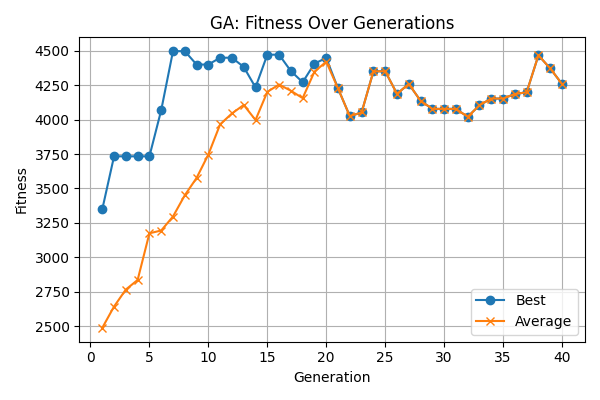
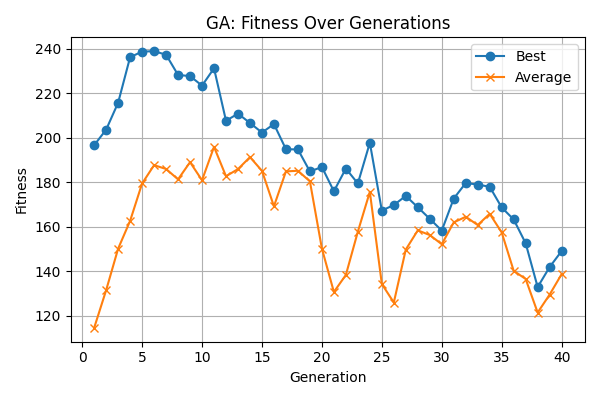
constraints added

diff --git a/templates/index.html b/templates/index.html
@@ -24,7 +24,7 @@
 </head>
 <body>
   <div class="container">
-    <h2>🆘 Disaster Relief — Resource GA & Route Planner</h2>
+    <h2>Disaster Relief — Resource GA & Route Planner</h2>
 
     <form id="mainForm" method="post">
       <div class="card">
@@ -32,7 +32,7 @@
         <table id="areaTable">
           <thead>
             <tr>
-              <th>Area</th><th>Population</th><th>Need</th><th>Urgency</th><th>Blocked?</th><th>X</th><th>Y</th><th>Remove</th>
+              <th>Area</th><th>Population</th><th>Need</th><th>Blocked?</th><th>X</th><th>Y</th><th>Remove</th>
             </tr>
           </thead>
           <tbody id="areaBody">
@@ -40,11 +40,6 @@
               <td><input name="area1" required></td>
               <td><input name="pop1" type="number" value="0" required></td>
               <td><input name="need1" placeholder="Food/Water/Medical" required></td>
-              <td>
-                <select name="urg1">
-                  <option>High</option><option selected>Medium</option><option>Low</option>
-                </select>
-              </td>
               <td>
                 <select name="blk1">
                   <option>No</option><option>Yes</option>
@@ -140,11 +135,6 @@
         <td><input name="area${count}" required></td>
         <td><input name="pop${count}" type="number" value="0" required></td>
         <td><input name="need${count}" placeholder="Food/Water/Medical" required></td>
-        <td>
-          <select name="urg${count}">
-            <option>High</option><option selected>Medium</option><option>Low</option>
-          </select>
-        </td>
         <td>
           <select name="blk${count}">
             <option>No</option><option>Yes</option>

diff --git a/app.py b/app.py
@@ -8,76 +8,87 @@ import matplotlib.pyplot as plt
 
 app = Flask(__name__)
 
-# ---------------------- Improved Genetic Algorithm ----------------------
+# ---------------------- Genetic Algorithm ---------------------- 
 def ga_optimizer(areas, resources, generations=30, population_size=30, elite_size=2, mutation_rate=0.15):
-    """
-    Genetic Algorithm with:
-      - Elitism
-      - Bounded mutation (±10% of total resource)
-      - Best + average fitness tracking
-    """
+    
     total_food = max(1, int(resources.get("Food", 0)))
     total_water = max(1, int(resources.get("Water", 0)))
     total_med = max(1, int(resources.get("Medical", 0)))
 
-    def random_plan():
+    def random_plan(): 
         plan = []
-        for _a in areas:
+        total_population = sum(a["Population"] for a in areas) or 1  # avoid divide-by-zero
+
+        for a in areas: # so resources arent wasted
+            pop = a["Population"]
+            pop_ratio = pop / total_population     # for example 100/300 = 0.33, 0.33*300 = 100 (we have 300 area a - 100 )
+            max_food = int(pop_ratio * total_food)
+            max_water = int(pop_ratio * total_water)
+            max_med = int(pop_ratio * total_med)
+
+            # random allocation bounded by population share
             plan.append({
-                "Area": _a["Area"],
+                "Area": a["Area"],
                 "Allocated": {
-                    "Food": random.randint(0, total_food),
-                    "Water": random.randint(0, total_water),
-                    "Medical": random.randint(0, total_med)
+                    "Food": random.randint(0, max_food),
+                    "Water": random.randint(0, max_water),
+                    "Medical": random.randint(0, max_med)
                 }
             })
         return plan
 
+
     def fitness(plan):
-        coverage = 0.0
-        urgency_score = 0.0
+        fitness_score = 0.0
         delivery_penalty = 0.0
+
         for p, a in zip(plan, areas):
             need = (a.get("Need") or "").lower()
-            urgency = (a.get("Urgency") or "low").lower()
-            blocked = (a.get("Blocked") or "No").lower()
+            blocked = (a.get("Blocked") or "no").lower()
 
+            food = p["Allocated"]["Food"]
+            water = p["Allocated"]["Water"]
+            medical = p["Allocated"]["Medical"]
+
+            # Priority based on need type
             if need == "food":
-                coverage += p["Allocated"]["Food"]
+                score = (0.7 * food) + (0.2 * water) + (0.1 * medical)
             elif need == "water":
-                coverage += p["Allocated"]["Water"]
+                score = (0.7 * water) + (0.2 * food) + (0.1 * medical)
             elif need == "medical":
-                coverage += p["Allocated"]["Medical"]
-
-            if urgency == "high":
-                urgency_score += 100
-            elif urgency == "medium":
-                urgency_score += 60
+                score = (0.7 * medical) + (0.2 * food) + (0.1 * water)
             else:
-                urgency_score += 30
+                # if need is unspecified, treat all equally
+                score = 0.33 * (food + water + medical)
 
             if blocked == "yes":
                 delivery_penalty += 40
 
-        return 0.5 * coverage + 0.3 * urgency_score - 0.2 * delivery_penalty
+            fitness_score += score
+
+        return fitness_score - delivery_penalty
+
 
     population = [random_plan() for _ in range(population_size)]
     best_fitness_over_time = []
     avg_fitness_over_time = []
 
     for gen in range(generations):
+        # --- Evaluate fitness of all individuals ---
         scored = [(fitness(ind), ind) for ind in population]
         scored.sort(key=lambda x: x[0], reverse=True)
         fitness_values = [s for s, _ in scored]
 
+        
         best = scored[0][0]
         avg = sum(fitness_values) / len(fitness_values)
         best_fitness_over_time.append(best)
         avg_fitness_over_time.append(avg)
 
+        
         elites = [ind for _, ind in scored[:elite_size]]
 
-        # Selection probabilities
+        # --- Normalize fitness values into probabilities --- (So it doesnt go beyond limit)
         min_fit = min(fitness_values)
         shift = -min_fit + 1.0 if min_fit < 0 else 0
         fitness_positive = [f + shift for f in fitness_values]
@@ -93,31 +104,65 @@ def ga_optimizer(areas, resources, generations=30, population_size=30, elite_siz
                     return _
             return scored[0][1]
 
+        # --- Child generation ---
         children = elites.copy()
+
+        # --- Resource constraint --- total from mutation is 450 total food we have is 400 
+        def normalize_resources(child):
+            total_allocated = {"Food": 0, "Water": 0, "Medical": 0}
+            for area in child:
+                for r in total_allocated:
+                    total_allocated[r] += area["Allocated"][r]
+
+            for r, total in total_allocated.items():
+                limit = total_food if r == "Food" else (total_water if r == "Water" else total_med)
+                if total > limit:
+                    # Scale down proportionally 
+                    scale = limit / total
+                    for area in child:
+                        area["Allocated"][r] = int(area["Allocated"][r] * scale)
+            return child
+
+        # --- Reproduction loop --- 
+
         while len(children) < population_size:
             p1 = pick_parent()
             p2 = pick_parent()
+
+            # --- Crossover ---
             if len(areas) > 1:
                 cp = random.randint(1, len(areas) - 1)
                 child = [dict(x) for x in (p1[:cp] + p2[cp:])]
             else:
                 child = [dict(x) for x in p1]
 
+            # --- Mutation ---
             if random.random() < mutation_rate:
                 area_idx = random.randint(0, len(areas) - 1)
                 res_type = random.choice(["Food", "Water", "Medical"])
                 cur_val = child[area_idx]["Allocated"].get(res_type, 0)
-                delta = int(max(1, round(0.10 * (total_food if res_type == "Food" else (total_water if res_type == "Water" else total_med)))))
+                delta = int(max(1, round(0.10 * (total_food if res_type == "Food"
+                                                else (total_water if res_type == "Water"
+                                                    else total_med)))))
                 change = random.randint(-delta, delta)
-                new_val = max(0, min(cur_val + change, total_food if res_type == "Food" else total_water if res_type == "Water" else total_med))
+                new_val = max(0, min(cur_val + change,
+                                    total_food if res_type == "Food"
+                                    else total_water if res_type == "Water"
+                                    else total_med))
                 child[area_idx]["Allocated"][res_type] = new_val
 
+            # --- Normalize to keep within resource limits ---
+            child = normalize_resources(child)
             children.append(child)
+
         population = children
 
-    final_scored = sorted([(fitness(ind), ind) for ind in population], key=lambda x: x[0], reverse=True)
+    # --- After all generations ---
+    final_scored = sorted([(fitness(ind), ind) for ind in population],
+                        key=lambda x: x[0], reverse=True)
     best_fitness, best_plan = final_scored[0]
 
+    # --- Plot Fitness Progress ---
     os.makedirs("static", exist_ok=True)
     plt.figure(figsize=(6, 4))
     plt.plot(range(1, generations + 1), best_fitness_over_time, marker='o', label='Best')
@@ -132,6 +177,7 @@ def ga_optimizer(areas, resources, generations=30, population_size=30, elite_siz
     plt.close()
 
     return best_plan, best_fitness
+
 
 # ---------------------- Route Planning ----------------------
 def euclidean(a, b):
